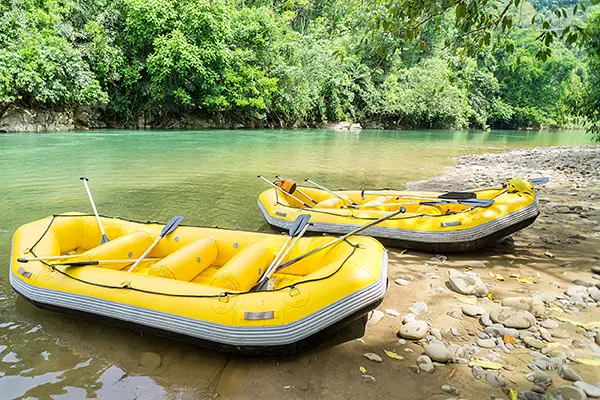
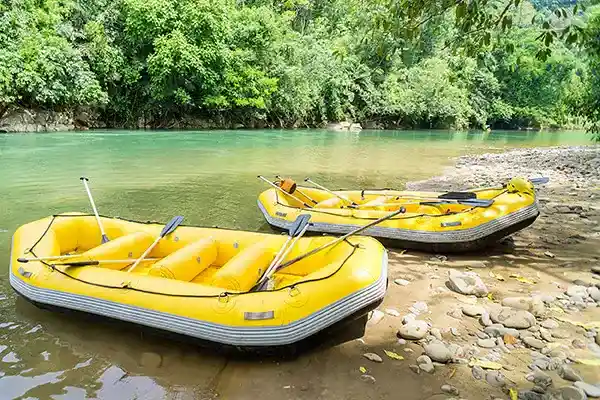
image optimizations

diff --git a/wwr/about.html b/wwr/about.html
@@ -29,7 +29,7 @@
     <main>
 
         <div class="hero">
-            <img src="images/rafting.jpg"
+            <img src="images/rafting.webp"
               alt="A large grey raft filled with people in red helmets paddling through splashing white water under a wooden bridge">
             <h1>White Water Rafting Co.</h1>
             <article>
@@ -72,12 +72,12 @@
                 <figcaption>The Big Mallard Rapids</figcaption>
             </figure>
             <figure>
-                <img src="images/beautiful-river.jpg"
+                <img src="images/beautiful-river.webp"
                   alt="High-angle view of a yellow raft navigating a turquoise river winding through a narrow rocky canyon with lush green trees">
                 <figcaption>Salmon River Scenic Float</figcaption>
             </figure>
             <figure>
-                <img src="images/rafting-team.jpg"
+                <img src="images/rafting-team.webp"
                   alt="A group of nine happy rafters in yellow and red life vests posing with their paddles on the riverbank">
                 <figcaption>Victory at Devil's Throat</figcaption>
             </figure>
@@ -87,7 +87,7 @@
                 <figcaption>Morning Preparations</figcaption>
             </figure>
             <figure>
-                <img src="images/rafting.jpg"
+                <img src="images/rafting.webp"
                   alt="A large grey raft filled with people in red helmets paddling through splashing white water under a wooden bridge">
                 <figcaption>The Bridge Drop Rapids</figcaption>
             </figure>
